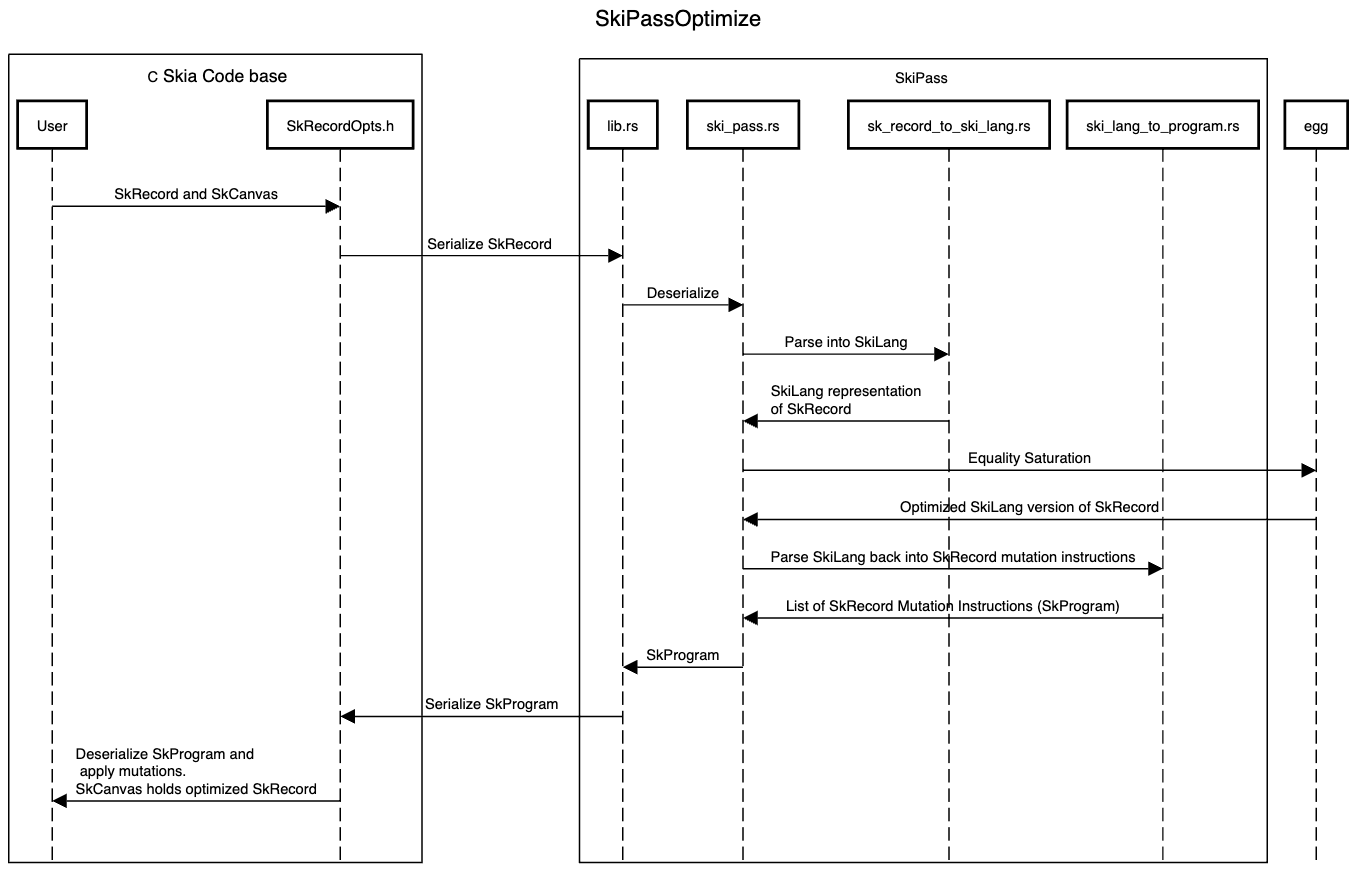
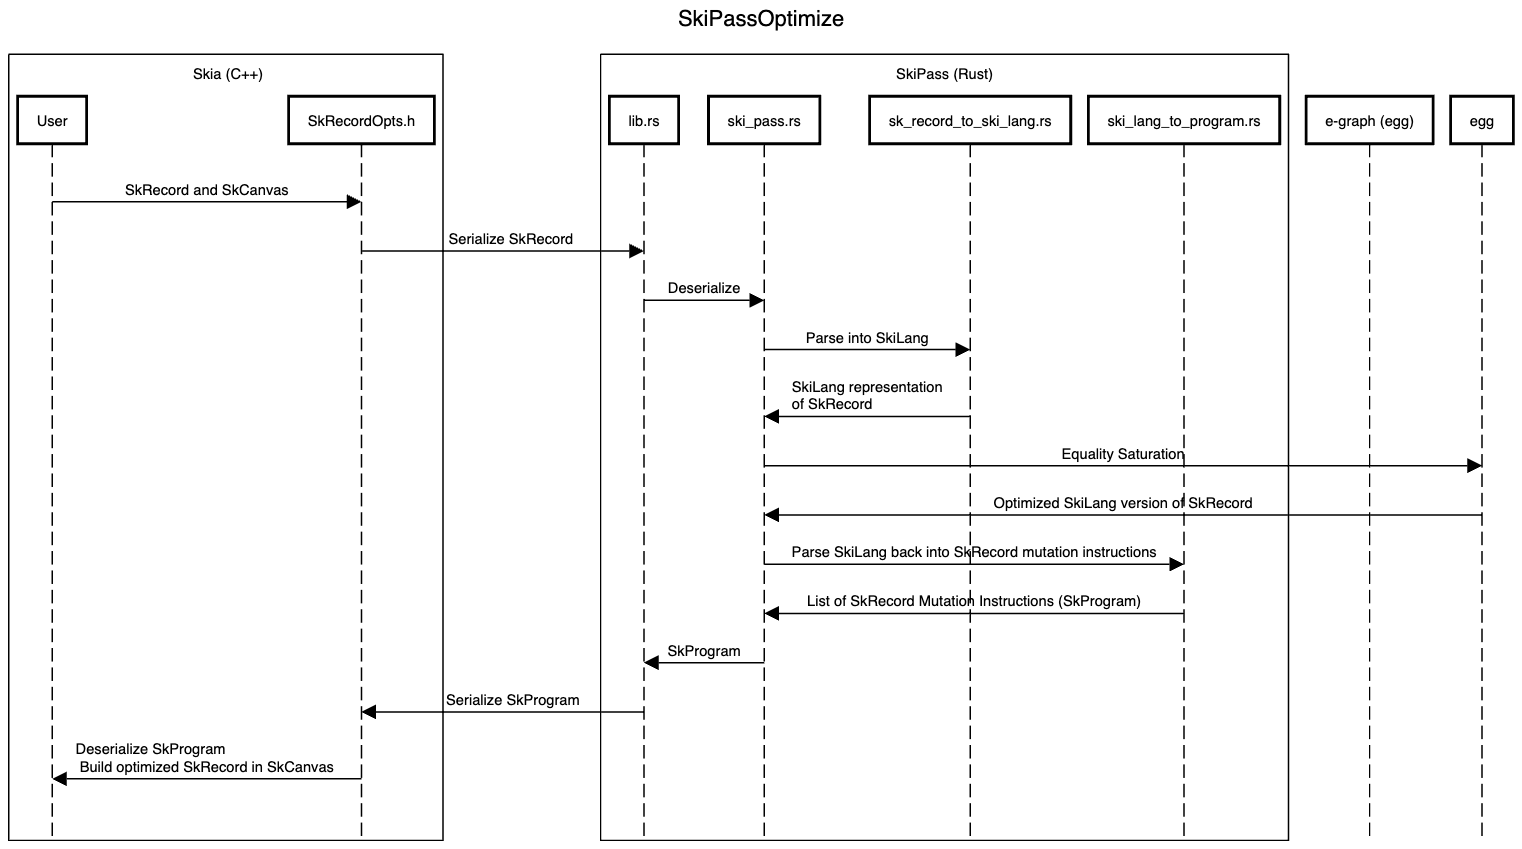
Adding more documentation

diff --git a/README.md b/README.md
@@ -19,18 +19,92 @@ In Skia, a [SkPicture](https://api.skia.org/classSkPicture.html) or SKP, is a re
 
 SkiPass converts a sequential list of draw commands in a SKP to a functional representation, which we call SkiLang of the final image rendered by the SKP. This functional representation is optimized using [egg](https://github.com/egraphs-good/egg), a e-graph library using a collection of simple equivalence functional rules. 
 
-### SkiPassOptimize Flow
+
+### SkiLang and Rewrite rules
+
+SkiLang is a functional representation of SkRecord Draw Commands. 
+
+Below is an example of equivalent SkRecord and SkiLang representations. 
+
+**For more examples and a more detailed overview of SkiLang, checkout the [SkiLang README](SkiLang.md).**
+
+```
+---- SkRecord ----
+
+drawRectA
+ClipRect
+Scale 2.0
+drawRectB
+SaveLayer(merge:srcOver, bounds, gauss_blur)
+	Translate (x, y)
+	drawRectC
+	drawRectD
+Restore
+drawRectE
+
+---- SkiLang -----
+
+(concat
+	(merge
+		(concat drawRectA (Clip (Scale (drawRectB))))
+		(translate
+			(concat drawRectB drawRectC)
+		)
+		[srcOver, bounds, gauss_blur]
+		(ClipRect (Scale (~)))
+	)
+	(ClipRect (Scale drawRectC) )
+)
+```
+
+
+
+
+### SkiPass optimize path
 
 ![image](./skia_opt_research/docs/SkiPassOptimize.png)
 
+The SkiPass optimize path involves the following steps
 
-TODO: Add in locations of the above participant files 
+1. Extract all the draw calls and parameters that SkiLang understands and pack into a protobuf.
+2. SkiPass deserializes the proto and constructs a SkiLang expression, a functional representation of the image created by the draw calls.
+3. Feed the expression into a e-graph and run equality saturation with rewrite rules and find a more optimal version (in terms of layers created) 
+4. Extracting the optimized program and pass it back to the C++
 
-TODO: Show some example SkiLang translations and optimizations 
+### [SkRecordOpts: SkiPassOptimize](src/core/SkRecordOpts.h)
+The SkiPass optimize method is added to [SkRecordOpts.h](src/core/SkRecordOpts.h). 
+
+[SkiPassOptimize](src/core/SkRecordOpts.h) takes in a [SkRecord](src/core/SkRecord.h) and returns a [SkCanvas](include/core/SkCanvas.h) representing the optimized [SkRecord](src/core/SkRecord.h). 
+
+The reason a SkCanvas is returned instead of a new SkRecord or modifying the original SkRecord in place is that SkCanvas provides a convenient API to create a new SkRecord.
+
+### [SkiPass Protos](skia_opt_research/protos/ski_pass.proto)
+SkiPass uses protobufs to facilitate interop between Rust and C++. The [protobuf definitions](skia_opt_research/protos/ski_pass.proto) capture the subset of [SkRecords.h](src/core/SkRecords.h) that are relevant to SkiLang.
+
+### [SkiPass](skia_opt_research/SkiPass/)
+
+The SkiPass code is responsible for
+
+1. [Constructing a SkiLang expression](skia_opt_reserach/SkiPass/sk_record_to_ski_lang.rs) from a SkRecord. 
+2. Running Equality Saturation via egg using [rewrite rules](skia_opt_research/SkiPass/ski_lang_rules.rs).
+
+3. [Constructing instructions](skia_opt_research/ski_lang_to_program.rs) which SkRecordOpts can use to construct the optimized SkRecord.
+
 
 ## Benchmark Details
 
 TODO: How is memory measured? (mention we don't count memory reuse currently)
+TODO: Also mention that SkRecordOpts is disabled manually to get a correct comparison.
+
+### TestCases
+
+UnitTestCases
+WebPages
+TODO: Add instructions on adding a new webpage or unit test case.
+
+### Debugging Tips
+
+TODO: Use SKP + debugger.skia.org.
 
 
 -------------

diff --git a/SkiLang.md b/SkiLang.md
@@ -1,0 +1,239 @@
+# SkiLang
+
+TODO: SkiLang should be it's own doc. It's pretty large.
+
+TODO: Add a one liner about each command
+
+## SkiLang Operators
+
+### Concat
+
+```
+---- SkRecord ----
+
+drawRectA
+drawRectB
+drawRectC
+
+---- SkiLang -----
+
+(concat
+    (concat
+        drawRectA
+        drawRectB
+    )
+    drawRectC
+)
+```
+
+### ClipRect, ConcatM44, MatrixOp
+
+```
+---- SkRecord ----
+
+drawRectA
+ClipRect
+drawRectB
+Scale 2.0
+drawRectC
+
+---- SkiLang -----
+
+(concat
+	(concat
+		drawRectA
+		(ClipRect drawRectB)
+	)
+	(ClipRect (Scale  drawRectC) )
+)
+
+OR (Rewrite rules!)
+
+(concat
+	drawRectA
+	(ClipRect
+		(concat
+			drawRectB
+			(Scale drawRectC)
+		)
+	)
+)
+```
+
+### Save, Restore
+
+```
+---- SkRecord ----
+
+drawRectA
+ClipRect
+drawRectB
+Save
+	Scale 2.0
+	drawRectC
+Restore
+drawRectD
+
+---- SkiLang -----
+
+(concat
+	(concat
+		(concat
+			drawRectA
+			(ClipRect drawRectB)
+		)
+		(ClipRect (Scale  drawRectC ) )
+	)
+	(ClipRect drawRectD)
+)
+
+OR (Rewrite rules!)
+
+(concat
+	drawRectA
+	(ClipRect
+		(concat
+			(concat
+				drawRectB
+				(Scale drawRectC)
+			)
+			drawRectD
+		)
+	)
+)
+```
+
+
+### SaveLayer, Restore (and VirtualOps)
+
+```
+---- SkRecord ----
+
+drawRectA
+SaveLayer(merge:srcOver, bounds)
+	drawRectB
+	drawRectC
+Restore
+drawRectC
+
+---- SkiLang -----
+
+(concat
+	(merge
+		drawRectA
+		(concat drawRectB drawRectC)
+		[srcOver, bounds]
+		blankState
+	)
+	drawRectC
+)
+
+```
+```
+---- SkRecord ----
+
+drawRectA
+ClipRect
+Scale 2.0
+drawRectB
+SaveLayer(merge:srcOver, bounds, gauss_blur)
+	Translate (x, y)
+	drawRectC
+	drawRectD
+Restore
+drawRectE
+
+---- SkiLang -----
+
+(concat
+	(merge
+		(concat drawRectA (Clip (Scale (drawRectB))))
+		(translate
+			(concat drawRectB drawRectC)
+		)
+		[srcOver, bounds, gauss_blur]
+		(ClipRect (Scale (~)))
+	)
+	(ClipRect (Scale drawRectC) )
+)
+
+---- IF WE HAD VIRTUAL OPS FOR srcOver, bounds, gauss_blur ---
+
+(srcOver
+	(srcOver
+		drawRectA
+
+		(ClipRect
+		(Scale
+		(ClipRectToLayerBounds
+		(GaussBlur
+			(Translate
+				(concat drawRectB drawRectC)
+			)
+		))))
+	)
+	(ClipRect(Scale( drawRectC) ))
+)
+
+
+```
+
+TODO: Why is ClipToBounds separate from ClipRect? They could be merged. 
+Mainly because we don't have a rewrite rule that says
+
+```
+(merge
+	dst
+	clipRect src
+	[mergeParams.., noBounds]
+) ->
+(merge
+	dst,
+	src
+	[mergeParams.., clipRectBounds]
+)
+```
+
+### Rewrite rules
+
+#### Blank Rules
+
+#### Associativity
+
+```
+(srcOver A (srcOver B C)) <=> (srcOver (srcOver A B) C)
+```
+
+#### Commutativity
+```
+(clipRect (alpha surface)) => (alpha (clipRect surface))
+```
+
+#### SaveLayer To VirtualOps Rules
+
+#### Common Rules
+```
+(concat
+    (ClipRect surface1 bounds)
+    (ClipRect surface2 bounds)
+) =>
+(ClipRect
+    (concat surface1 surface2)
+    bounds
+)
+```
+
+##### Merge Rules
+
+```
+(ClipRect (ClipRect surface b1) b2) =>
+(ClipRect surface b1 intersect b2)
+
+(Alpha (Alpha surface a2) a1) =>
+(Alpha surface a1*a2/255 )
+
+```
+
+#### NoOp SaveLayer Rules
+
+TODO:
